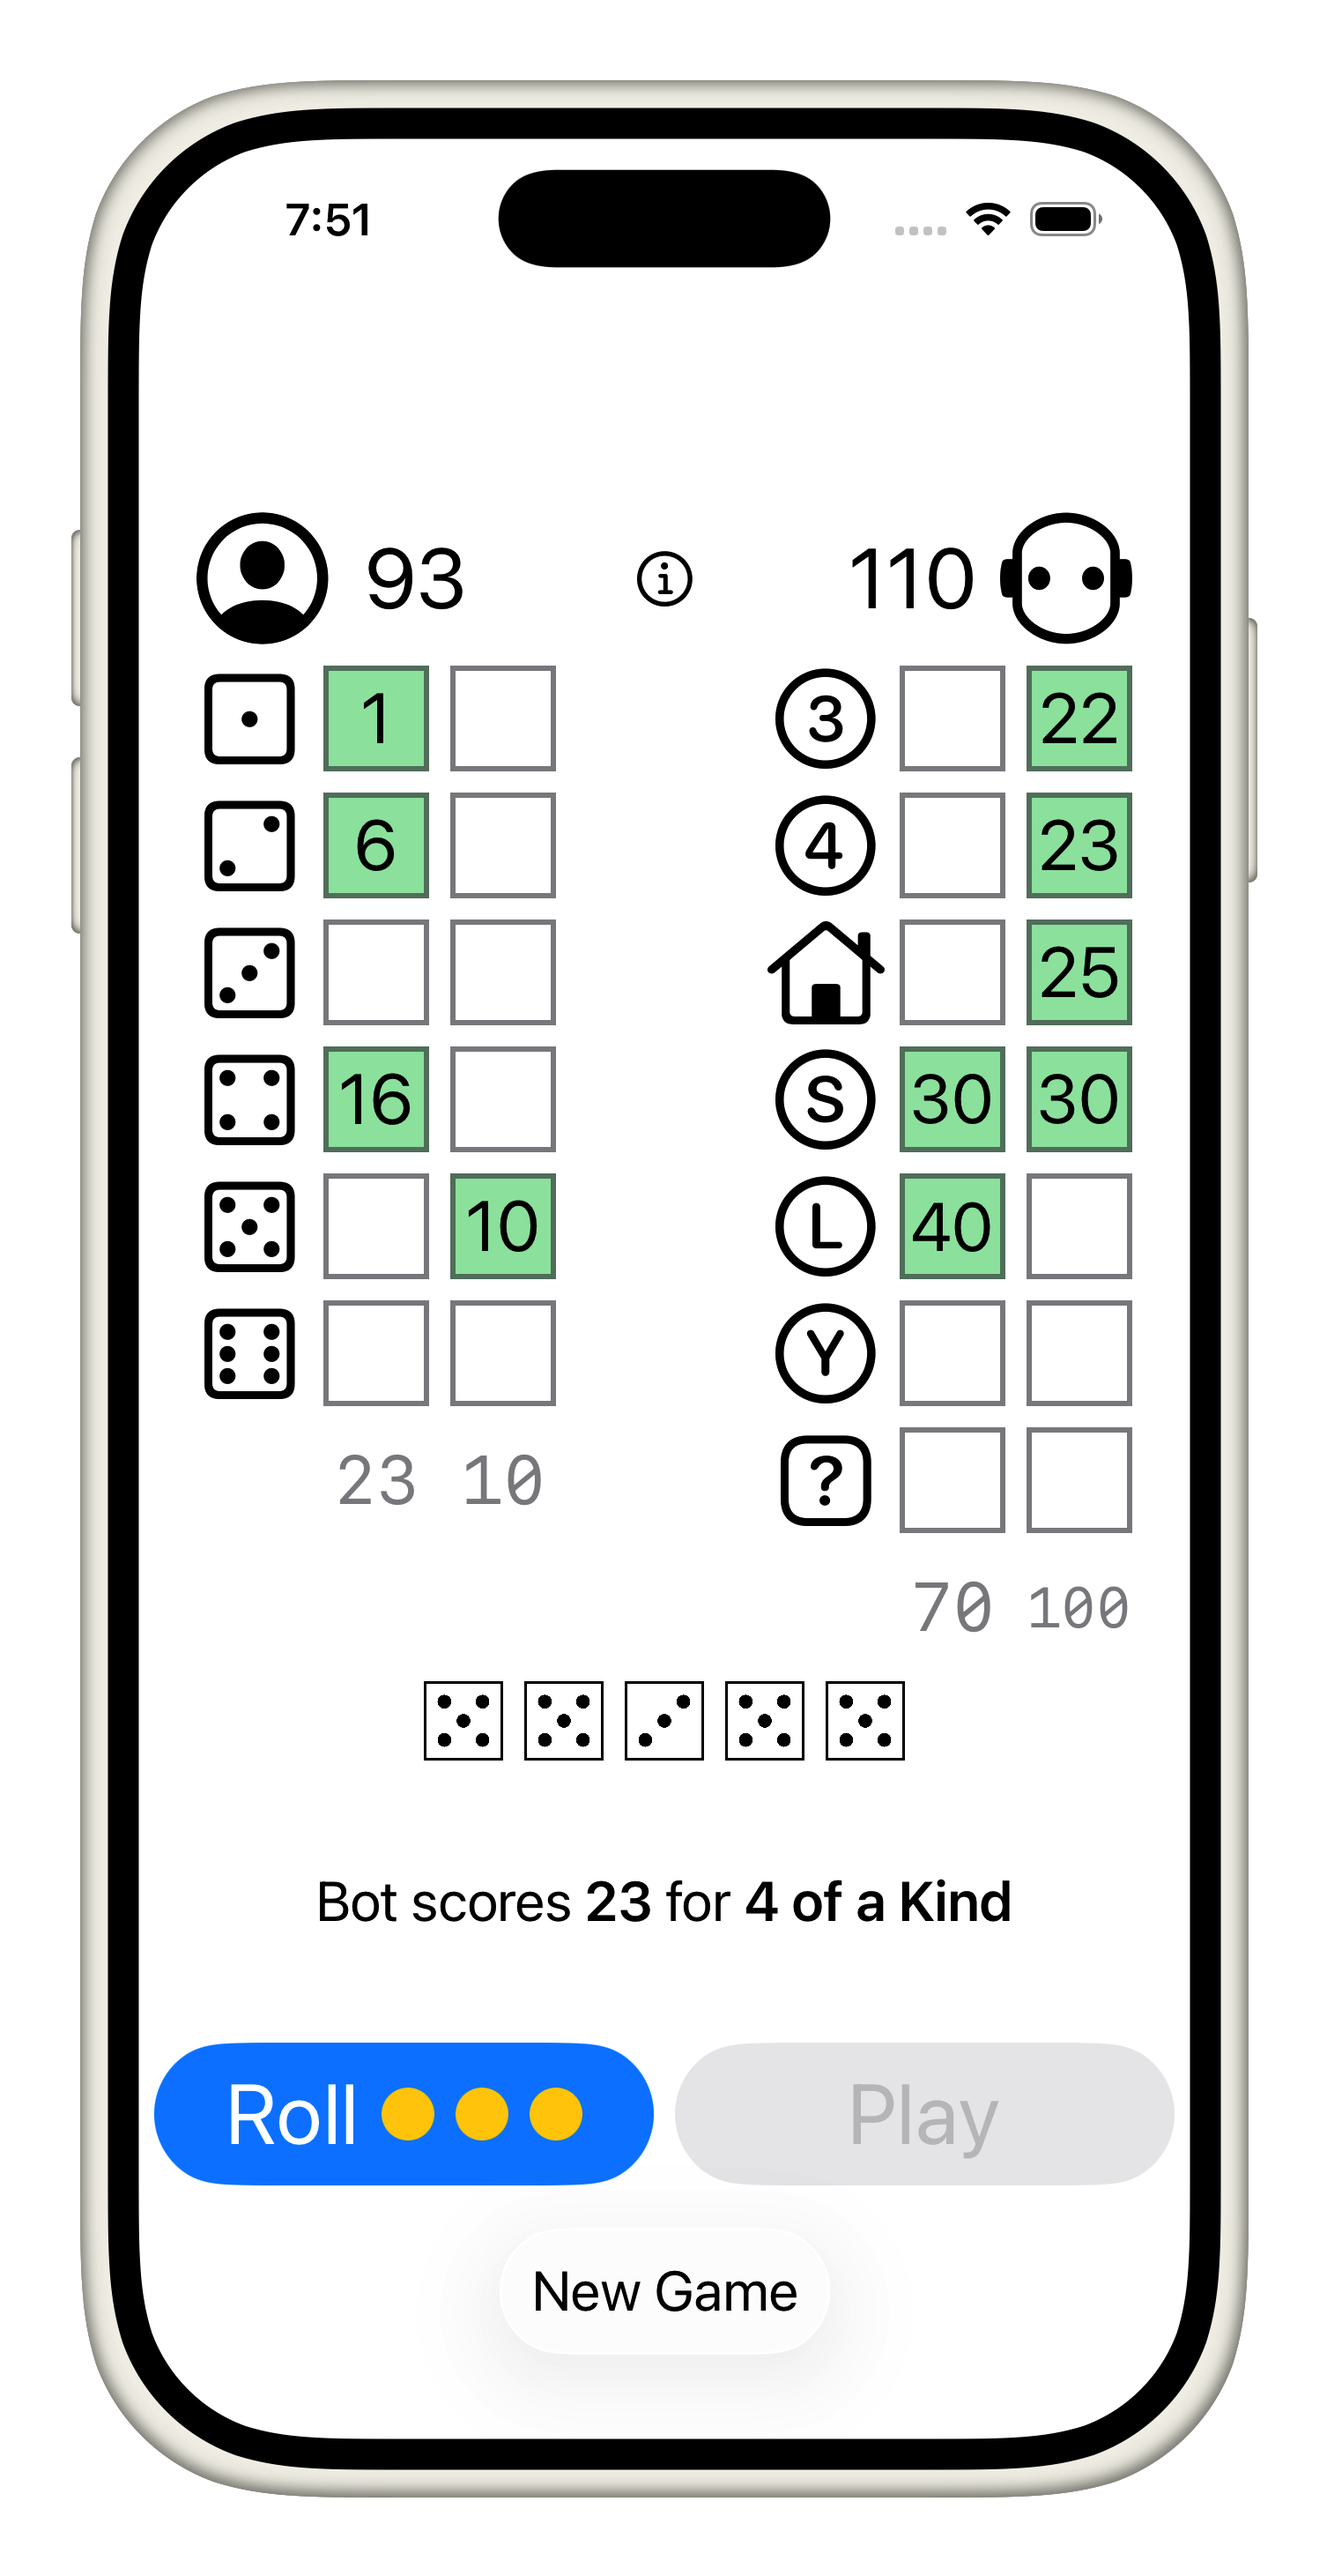
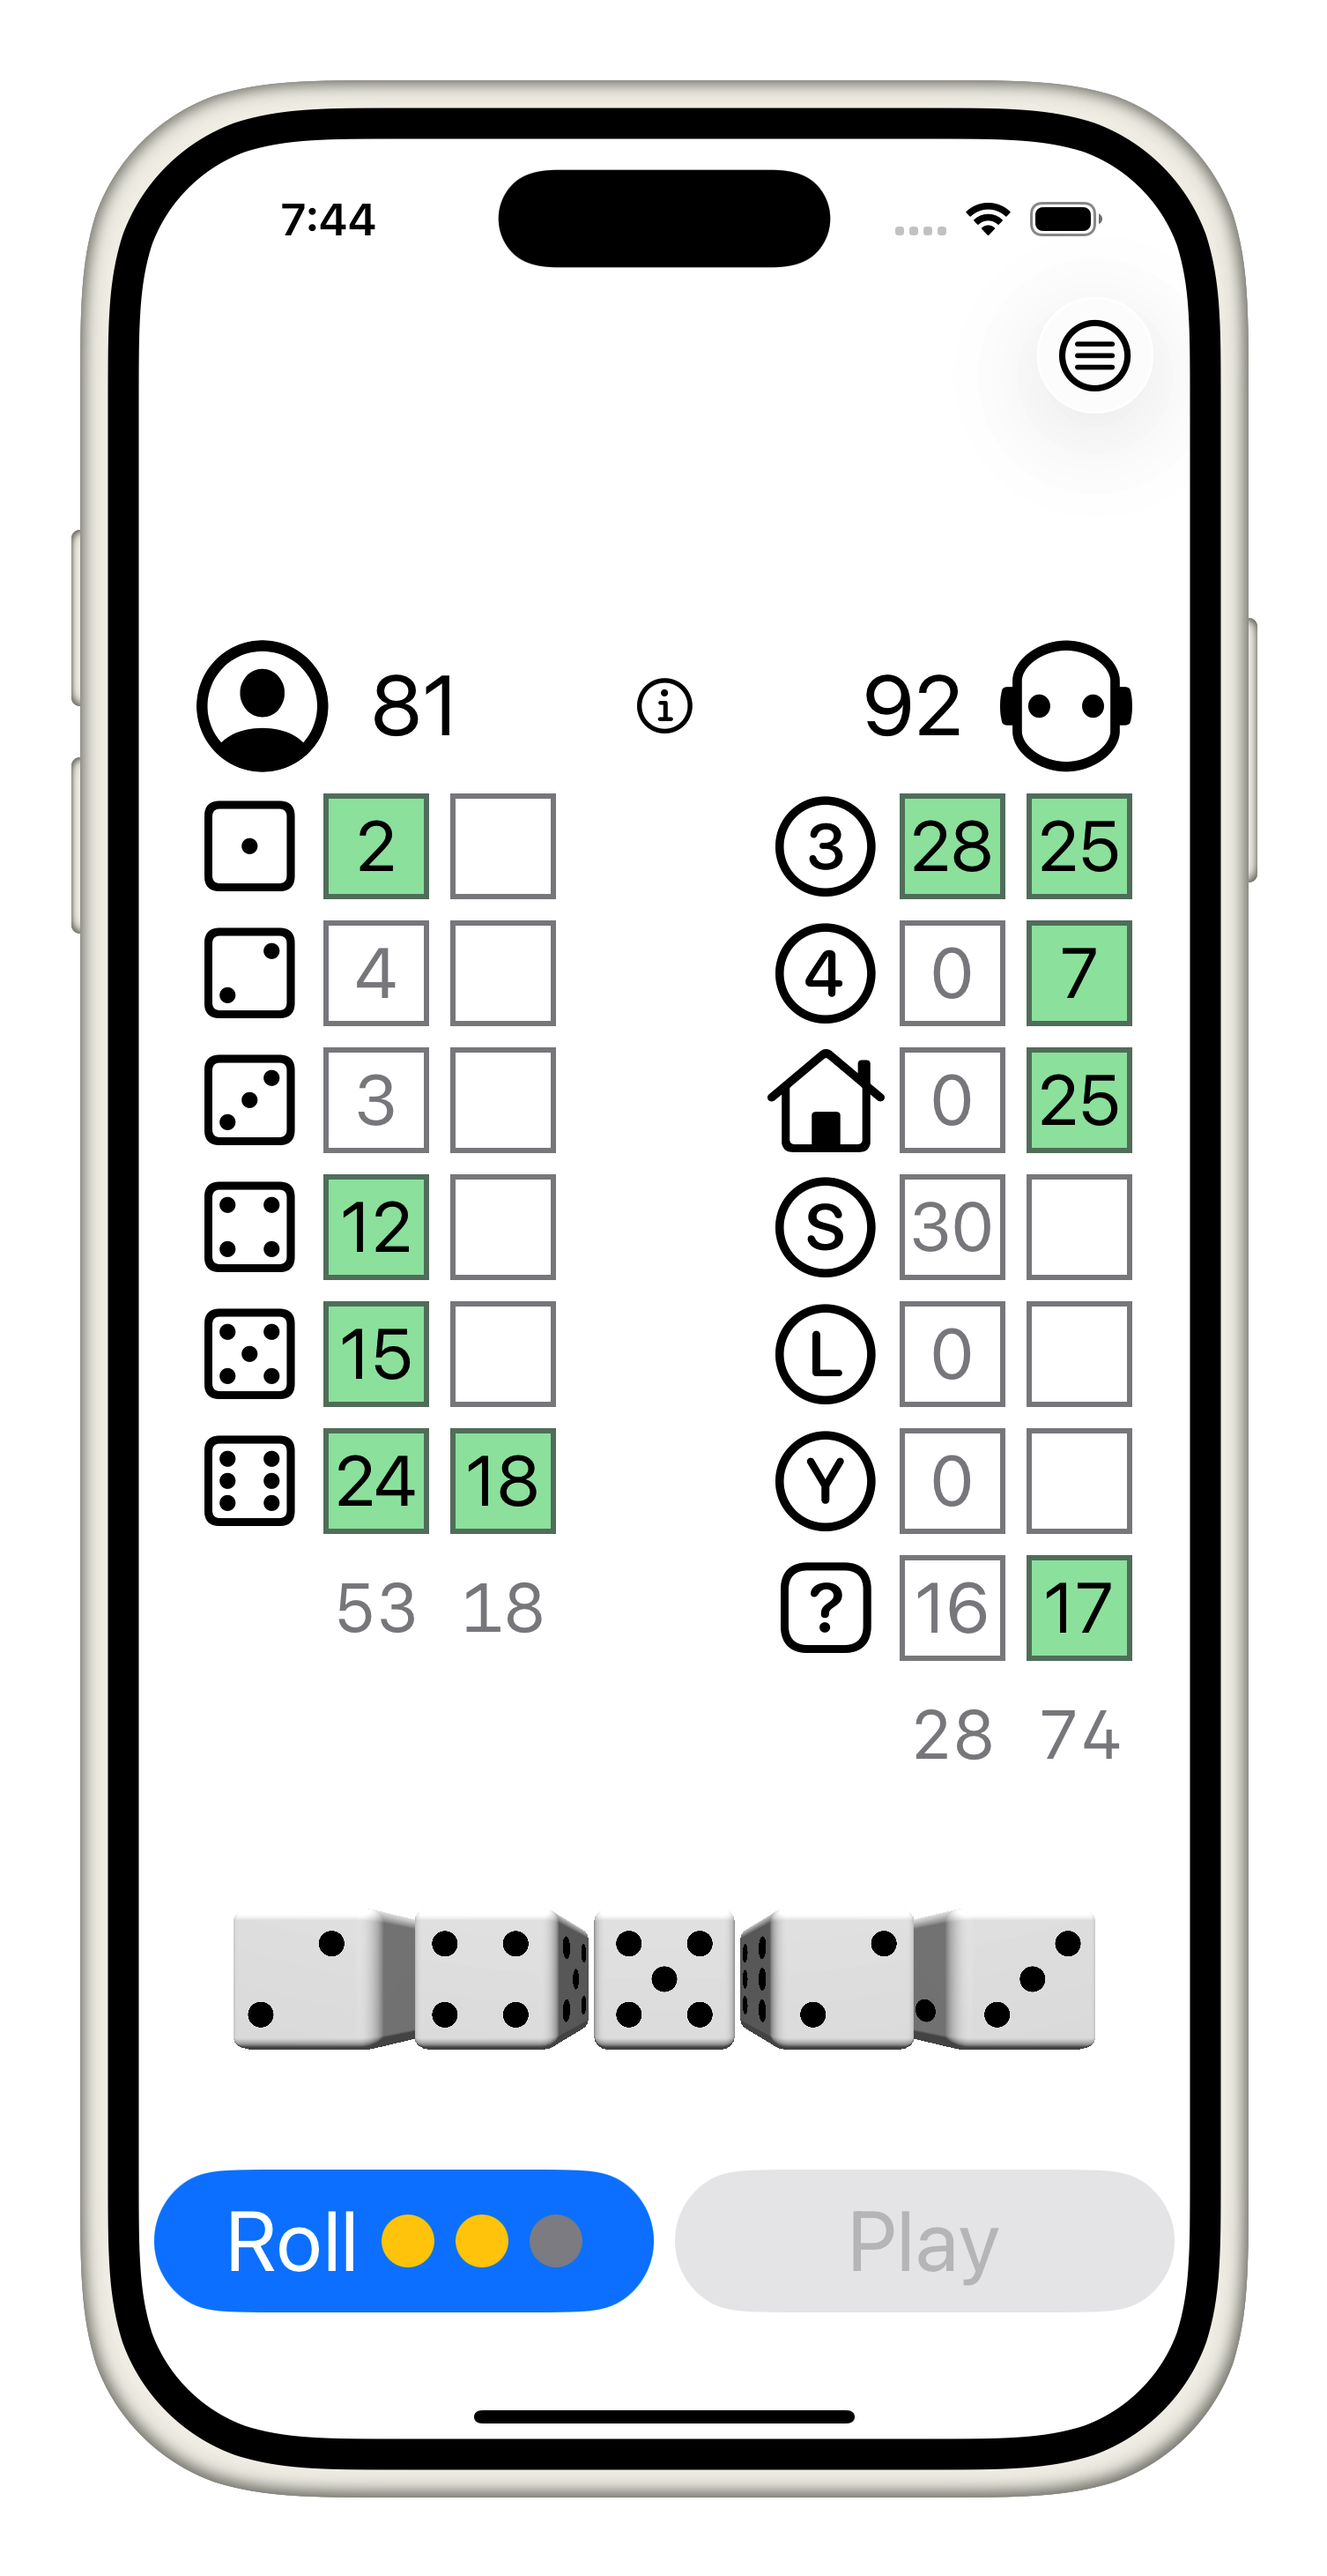
Layout tweaks.

diff --git a/Yahtzee/Views/GameView.swift b/Yahtzee/Views/GameView.swift
@@ -41,8 +41,6 @@ struct GameView: View {
             Spacer()
 
             VStack {
-                Spacer()
-
                 HStack {
                     PlayerScoreView(
                         image: Image(systemName: "person.crop.circle"),
@@ -105,11 +103,11 @@ struct GameView: View {
             Spacer()
         }
         .toolbar {
-            ToolbarItem(placement: .bottomBar) {
+            ToolbarItem(placement: .topBarTrailing) {
                 Button(action: {
                     promptNewGame.toggle()
                 }) {
-                    Text("New Game")
+                    Image(systemName: "line.horizontal.3.circle")
                 }
                 .buttonStyle(.automatic)
                 .confirmationDialog(

diff --git a/Yahtzee/Views/ScoreboardView.swift b/Yahtzee/Views/ScoreboardView.swift
@@ -22,7 +22,7 @@ struct ScoreboardView: View {
                         .resizable()
                         .frame(width: 30, height: 30)
 
-                    Image(systemName: "poweroutlet.type.b")
+                    Image(systemName: "poweroutlet.type.f")
                         .resizable()
                         .frame(width: 30, height: 30)
                         .aspectRatio(contentMode: .fit)

diff --git a/Yahtzee/Application/YahtzeeApp.swift b/Yahtzee/Application/YahtzeeApp.swift
@@ -11,7 +11,9 @@ import SwiftUI
 struct YahtzeeApp: App {
     var body: some Scene {
         WindowGroup {
-            GameView()
+            NavigationStack {
+                GameView()
+            }
         }
     }
 }
